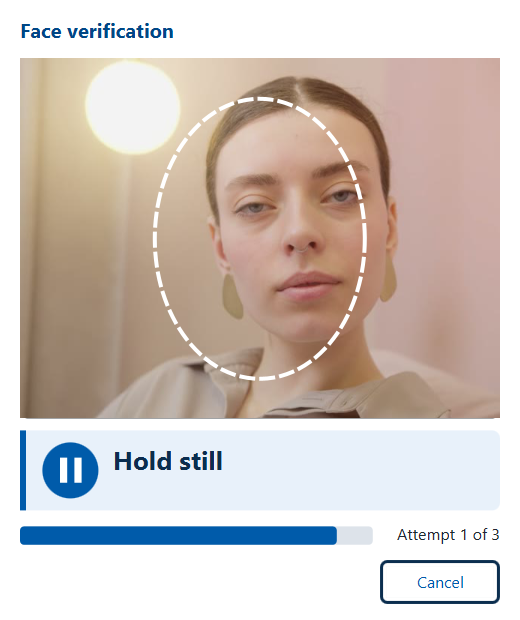
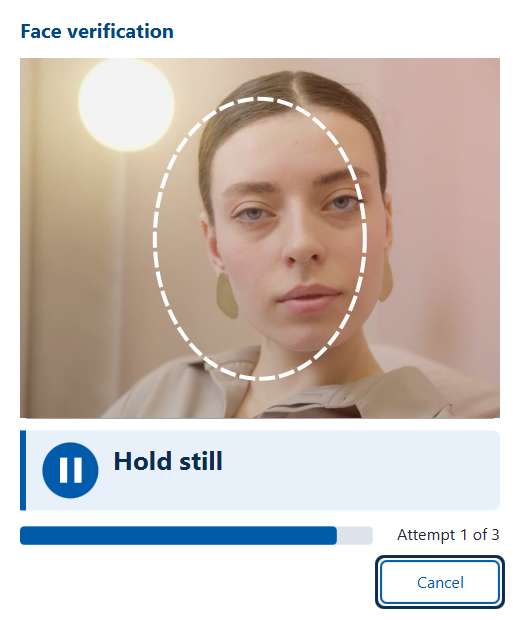
fix(liveness): name the model-signing key by fingerprint so desktop config sync fits
Since 1bed6ab no model loads unless mosip.registration.liveness.model.trust_anchor_pem
names the signing key. MockSync sent it as a 615-character PEM block, but the desktop
client stores synced settings in 512 characters, so its whole config sync failed and
the engine never loaded (3 of 71 desktop flow checks failed).

The setting may now hold sha256:<64 hex> fingerprints that pick a key shipped with the
client (the development key, or keys in a liveness-model-trust-anchors.pem class path
file), alongside PEM blocks. Unset, unreadable, or a fingerprint of no shipped key
still means CONFIG_INVALID and no model loads. MockSync sends the development key's
fingerprint. Both clients use ModelTrustAnchors.configured; the Android parity test
now loads the engine with the fingerprint.

Desktop flow 71 of 71, screens flow 24 of 24 (screenshots d-s1 to d-s12 refreshed);
engine, desktop liveness and Android unit tests pass (2,707 in the table).

diff --git a/liveness/liveness-onnx/src/main/java/io/mosip/liveness/onnx/model/ModelTrustAnchors.java b/liveness/liveness-onnx/src/main/java/io/mosip/liveness/onnx/model/ModelTrustAnchors.java
@@ -6,15 +6,24 @@
  */
 package io.mosip.liveness.onnx.model;
 
+import java.io.ByteArrayOutputStream;
+import java.io.IOException;
+import java.io.InputStream;
+import java.nio.charset.StandardCharsets;
 import java.security.GeneralSecurityException;
 import java.security.KeyFactory;
+import java.security.MessageDigest;
+import java.security.NoSuchAlgorithmException;
 import java.security.PublicKey;
 import java.security.spec.X509EncodedKeySpec;
 import java.util.ArrayList;
 import java.util.Base64;
 import java.util.List;
+import java.util.Locale;
 import java.util.Objects;
 import java.util.Optional;
+import java.util.regex.Matcher;
+import java.util.regex.Pattern;
 
 import io.mosip.liveness.core.EngineErrorCode;
 import io.mosip.liveness.core.EngineException;
@@ -27,8 +36,20 @@ import io.mosip.liveness.core.config.LivenessConfigKeys;
  * <p>The development key below signs the bundle in this repository ({@code models/manifest.jws}). Its private
  * half is kept outside the repository and never committed. The clients trust only the keys named by
  * {@code mosip.registration.liveness.model.trust_anchor_pem}; demo configurations set it to this key explicitly.
+ *
+ * <p>The setting holds PEM {@code PUBLIC KEY} blocks, or {@code sha256:<64 hex>} fingerprints (SHA-256 of the key's
+ * SubjectPublicKeyInfo) that pick keys shipped with the client: the development key and the PEM blocks of the class
+ * path resource {@value #BUILT_IN_RESOURCE}. A fingerprint fits the desktop client's global-parameter column
+ * (512 characters), which a PEM RSA 3072 key (about 600 characters) does not.
  */
 public final class ModelTrustAnchors {
+
+    /** Class path resource with further keys a fingerprint may pick; optional, added to a deployment's build. */
+    public static final String BUILT_IN_RESOURCE = "liveness-model-trust-anchors.pem";
+
+    private static final Pattern PEM_BLOCK = Pattern.compile(
+            "-----BEGIN PUBLIC KEY-----.*?-----END PUBLIC KEY-----", Pattern.DOTALL);
+    private static final Pattern FINGERPRINT = Pattern.compile("sha256:([0-9a-fA-F]{64})");
 
     /**
      * X.509 SubjectPublicKeyInfo (PEM) of the development model-signing key (RSA 3072, key id
@@ -59,12 +80,13 @@ public final class ModelTrustAnchors {
     }
 
     /**
-     * Returns the keys a deployment trusts: the PEM blocks of {@code mosip.registration.liveness.model.trust_anchor_pem}.
+     * Returns the keys a deployment trusts: the PEM blocks, and the shipped keys picked by fingerprint, in
+     * {@code mosip.registration.liveness.model.trust_anchor_pem}.
      *
      * @param config liveness configuration
      * @return at least one key
-     * @throws EngineException {@code CONFIG_INVALID} when the key is unset or holds no readable RSA public key; no
-     *                         built-in key is trusted in its place, so no model loads
+     * @throws EngineException {@code CONFIG_INVALID} when the key is unset, holds no readable RSA public key, or names
+     *                         a fingerprint of no shipped key; no other key is trusted in its place, so no model loads
      */
     public static List<PublicKey> configured(ConfigSource config) throws EngineException {
         Optional<String> pem = config.get(LivenessConfigKeys.MODEL_TRUST_ANCHOR_PEM).map(String::trim)
@@ -74,21 +96,76 @@ public final class ModelTrustAnchors {
                     + " is unset; no model is trusted until it names the model-signing public key");
         }
         List<PublicKey> keys = new ArrayList<>();
+        String value = pem.get().replace("\\n", "");
         try {
-            for (String block : pem.get().replace("\\n", "").split("-----END PUBLIC KEY-----")) {
-                if (!block.trim().isEmpty()) {
-                    keys.add(parsePem(block));
+            Matcher blocks = PEM_BLOCK.matcher(value);
+            while (blocks.find()) {
+                keys.add(parsePem(blocks.group()));
+            }
+            for (String token : blocks.replaceAll(" ").trim().split("[\\s,]+")) {
+                if (token.isEmpty()) {
+                    continue;
                 }
+                Matcher fp = FINGERPRINT.matcher(token);
+                if (!fp.matches()) {
+                    throw new IllegalArgumentException("neither a PEM block nor sha256:<64 hex>");
+                }
+                keys.add(shipped(fp.group(1).toLowerCase(Locale.ROOT)));
             }
         } catch (IllegalArgumentException e) {
-            throw new EngineException(EngineErrorCode.CONFIG_INVALID,
-                    LivenessConfigKeys.MODEL_TRUST_ANCHOR_PEM + " is not a PEM RSA public key", e);
+            throw new EngineException(EngineErrorCode.CONFIG_INVALID, LivenessConfigKeys.MODEL_TRUST_ANCHOR_PEM
+                    + " is not a PEM RSA public key or the fingerprint of a shipped key: " + e.getMessage(), e);
         }
         if (keys.isEmpty()) {
             throw new EngineException(EngineErrorCode.CONFIG_INVALID, LivenessConfigKeys.MODEL_TRUST_ANCHOR_PEM
                     + " holds no key");
         }
         return keys;
+    }
+
+    /**
+     * Returns the fingerprint with which the setting picks a shipped key.
+     *
+     * @param key the key
+     * @return {@code sha256:} and the lower-case hex SHA-256 of the key's SubjectPublicKeyInfo
+     */
+    public static String fingerprint(PublicKey key) {
+        try {
+            StringBuilder sb = new StringBuilder("sha256:");
+            for (byte b : MessageDigest.getInstance("SHA-256").digest(key.getEncoded())) {
+                sb.append(String.format("%02x", b & 0xFF));
+            }
+            return sb.toString();
+        } catch (NoSuchAlgorithmException e) {
+            throw new IllegalStateException("SHA-256 not available", e);
+        }
+    }
+
+    /** The development key or a key of {@value #BUILT_IN_RESOURCE} with this SHA-256 (lower-case hex). */
+    private static PublicKey shipped(String hex) {
+        List<PublicKey> candidates = new ArrayList<>();
+        candidates.add(development());
+        try (InputStream in = ModelTrustAnchors.class.getClassLoader().getResourceAsStream(BUILT_IN_RESOURCE)) {
+            if (in != null) {
+                ByteArrayOutputStream text = new ByteArrayOutputStream();
+                byte[] buf = new byte[4096];
+                for (int n = in.read(buf); n > 0; n = in.read(buf)) {
+                    text.write(buf, 0, n);
+                }
+                Matcher blocks = PEM_BLOCK.matcher(new String(text.toByteArray(), StandardCharsets.US_ASCII));
+                while (blocks.find()) {
+                    candidates.add(parsePem(blocks.group()));
+                }
+            }
+        } catch (IOException e) {
+            throw new IllegalArgumentException(BUILT_IN_RESOURCE + " could not be read", e);
+        }
+        for (PublicKey k : candidates) {
+            if (fingerprint(k).equals("sha256:" + hex)) {
+                return k;
+            }
+        }
+        throw new IllegalArgumentException("no shipped key has fingerprint sha256:" + hex);
     }
 
     /**

diff --git a/liveness/liveness-onnx/src/test/java/io/mosip/liveness/onnx/OnnxLivenessEngineProviderTest.java b/liveness/liveness-onnx/src/test/java/io/mosip/liveness/onnx/OnnxLivenessEngineProviderTest.java
@@ -98,6 +98,33 @@ class OnnxLivenessEngineProviderTest {
         assertEquals(EngineErrorCode.CONFIG_INVALID, invalid.getErrorCode());
     }
 
+    /**
+     * A fingerprint picks a key shipped with the client and fits the desktop client's 512-character global-parameter
+     * column, which the PEM RSA 3072 key does not (the desktop config sync failed on it); a fingerprint of no shipped
+     * key trusts nothing.
+     */
+    @Test
+    void fingerprintPicksTheShippedKeyAndFitsTheDesktopColumn() throws Exception {
+        String fp = ModelTrustAnchors.fingerprint(ModelTrustAnchors.development());
+        assertEquals("sha256:99538367853153c2969000626bcd6bdd28e7267d0649c0057662f85ee23e8b80", fp);
+        assertTrue(fp.length() <= 512 && ModelTrustAnchors.DEVELOPMENT_KEY_PEM.length() > 512);
+        Map<String, String> config = new HashMap<>();
+        config.put(LivenessConfigKeys.MODEL_TRUST_ANCHOR_PEM, fp.toUpperCase().replace("SHA256:", "sha256:"));
+        new OnnxLivenessEngineProvider().create(context(config)).close();
+
+        KeyPairGenerator g = KeyPairGenerator.getInstance("RSA");
+        g.initialize(2048);
+        config.put(LivenessConfigKeys.MODEL_TRUST_ANCHOR_PEM,
+                ModelTrustAnchors.fingerprint(g.generateKeyPair().getPublic()));
+        EngineException unknown = assertThrows(EngineException.class,
+                () -> new OnnxLivenessEngineProvider().create(context(config)));
+        assertEquals(EngineErrorCode.CONFIG_INVALID, unknown.getErrorCode());
+
+        config.put(LivenessConfigKeys.MODEL_TRUST_ANCHOR_PEM, "sha256:1234");
+        assertEquals(EngineErrorCode.CONFIG_INVALID, assertThrows(EngineException.class,
+                () -> new OnnxLivenessEngineProvider().create(context(config))).getErrorCode());
+    }
+
     /** No configured key: nothing is trusted and no model loads, not even the development-signed bundle. */
     @Test
     void unsetTrustAnchorLoadsNoModel() {

diff --git a/clients/android/android/livenessmanager/src/test/java/io/mosip/registration/livenessmanager/LivenessParityTest.java b/clients/android/android/livenessmanager/src/test/java/io/mosip/registration/livenessmanager/LivenessParityTest.java
@@ -68,7 +68,9 @@ public class LivenessParityTest {
         Context context = ApplicationProvider.getApplicationContext();
         AndroidImageDecoder decoder = new AndroidImageDecoder();
         Map<String, String> synced = new LinkedHashMap<>();
-        synced.put(LivenessConfigKeys.MODEL_TRUST_ANCHOR_PEM, ModelTrustAnchors.DEVELOPMENT_KEY_PEM);
+        // the form MockSync syncs: the development key named by its fingerprint
+        synced.put(LivenessConfigKeys.MODEL_TRUST_ANCHOR_PEM,
+                ModelTrustAnchors.fingerprint(ModelTrustAnchors.development()));
         EngineLoader engines = EngineLoader.onnx(context.getAssets(), config(synced), decoder);
         List<String> failures = new ArrayList<>();
         int committed = 0;

diff --git a/docs/test-report/README.md b/docs/test-report/README.md
@@ -6,7 +6,7 @@ stay in the linked reports; requirement-by-requirement status is in [../traceabi
 
 | Report | What it covers |
 |---|---|
-| [desktop-e2e.md](desktop-e2e.md) | Real desktop Registration Client against MockSync (mock MOSIP server) and MockMDS (mock face device): 13 scripted flows, 3 interactive flows, audit and packet evidence. Re-run 2026-10-17 at the shipped policy with the challenge pool cut to blink and smile: 71 of 71 (2026-10-15: 69 of 71) |
+| [desktop-e2e.md](desktop-e2e.md) | Real desktop Registration Client against MockSync (mock MOSIP server) and MockMDS (mock face device): 13 scripted flows, 3 interactive flows, audit and packet evidence. Re-run 2026-10-17 at the shipped policy with the challenge pool cut to blink and smile: 71 of 71 (2026-10-15: 69 of 71); again 71 of 71 on 2026-10-25 after the signing-key fix, screens flow 24 of 24 |
 | [android-e2e.md](android-e2e.md) | Real Android Registration Client on an Android 14 emulator against MockSync: 16 flows, latency, APK size. Re-run 2026-10-17 at the shipped policy with the challenge pool cut to blink and smile: 59 of 74 (2026-10-14: 55 of 75) |
 | [interoperability.md](interoperability.md) | Desktop and Android give the same liveness decision: 19 replayed cases through each client's engine loader, configuration and decoder, one ONNX Runtime release (1.20.0) on both (bonus B4) |
 | [android-performance.md](android-performance.md) | Per-frame latency and memory of the engine on a physical Android phone (bonus B7 and B8): measured on a OnePlus CPH2569 on 2026-10-24 (best p50 58-71 ms, p95 74-92 ms at 2 threads; 20 ms target missed) |
@@ -20,9 +20,9 @@ stay in the linked reports; requirement-by-requirement status is in [../traceabi
 
 | Area | Result |
 |---|---|
-| Unit and component tests | **2,706 tests, 0 failures, 0 errors** in the runs of 2026-10-25 over 13 test suites (section 2; Flutter count from 2026-10-14) |
+| Unit and component tests | **2,707 tests, 0 failures, 0 errors** in the runs of 2026-10-25 over 13 test suites (section 2; Flutter count from 2026-10-14) |
 | Automated liveness and attack scenarios | run of 2026-10-14 at the shipped defaults: 275 transactions, 755 attempt records (section 3.0). no attack transaction accepted at the shipped defaults (APCER 0.0% for every species and workflow); counts, bona fide rates and the passive-first result: [results](../eval/results/20261014-shipped/README.md) |
-| Desktop end-to-end | reference run 2026-09-30: 41 of 41 checks passed **at the old defaults** (all workflows passive first); 2026-10-17 at the shipped policy with the pool cut to blink and smile: 71 of 71, again in two runs on 2026-10-20 (section 4) |
+| Desktop end-to-end | reference run 2026-09-30: 41 of 41 checks passed **at the old defaults** (all workflows passive first); 2026-10-17 at the shipped policy with the pool cut to blink and smile: 71 of 71, again in two runs on 2026-10-20 and on 2026-10-25 after the signing-key fix (section 4) |
 | Android end-to-end | reference run 2026-09-30: 58 of 58 checks passed **at the old defaults**; a repeat run found one real weakness; 2026-10-17 at the shipped policy with the pool cut to blink and smile: 59 of 74 (section 4) |
 | Bonus items | B4 interoperability done (19 of 19 replayed cases agree on desktop and on Android unit tests, 6 of 6 on an emulator); B6 model import done on both clients (Android button in Device Settings); B7 and B8 measured on one phone on 2026-10-24 (best p95 74-92 ms per frame at 2 threads, 20 ms target missed; section 8) |
 | Headline weakness | every synthetic attack species is refused, but the attacks are software-made: the screen-pattern check that now stops the adaptive screen replay (SYN-A7, 4 of 8 accepted before it) is proven on synthetic screens only, and frames enlarged by 1.5x or a whole number before the engine could look like a screen to it. The dim clip passes since the exposure correction; real dim rooms are untested (section 6) |
@@ -43,7 +43,7 @@ code and still pass with this project's changes.
 | Module | What it tests | Command | Tests | Failures / errors | Skipped | CI job |
 |---|---|---|---|---|---|---|
 | `liveness/liveness-core` | engine: session state machine, passive decision, challenges, action detection, integrity, planarity, capture binding, policy, audit, UI states, MJPEG reader | `mvn -B -f liveness/pom.xml install -Dliveness.benchmark.frames=0` (the job runs `verify`; `install` also puts the engine in `~/.m2`, which the rows below need) | 376 | 0 | 0 | `liveness` |
-| `liveness/liveness-onnx` | ONNX adapters, golden outputs of the 5 models, signed model registry, engine factory, execution providers, exposure correction and screen-pattern check, shared model-bundle importer and store | same run | 127 | 0 | 2 | `liveness` |
+| `liveness/liveness-onnx` | ONNX adapters, golden outputs of the 5 models, signed model registry, engine factory, execution providers, exposure correction and screen-pattern check, shared model-bundle importer and store | same run | 128 | 0 | 2 | `liveness` |
 | `liveness/face-match-sdk` | SFace face-match SDK behind MOSIP's `IBioApiV2`, ISO 19794-5 records, MOSIP loader | same run | 44 | 0 | 0 | `liveness` |
 | desktop `registration-services` (liveness and audit tests) | capture and authentication gates, stream session, orchestrator, config, audit sink, packet evidence, pass tokens, model import wiring, behaviour on repeated failure, account lock | after the engine install: `mvn -B -f clients/desktop/registration/pom.xml test -pl registration-services,registration-client -am -Dgpg.skip -Djacoco.skip=true -DfailIfNoTests=false "-Dtest=io/mosip/registration/service/bio/liveness/*Test.java,**/AuditFactoryTest.java,io/mosip/registration/controller/liveness/*Test.java"` (on Linux, put `xvfb-run -a` in front: the JavaFX tests need a display) | 159 | 0 | 0 | `desktop-liveness` |
 | desktop `registration-client` (liveness tests) | liveness panel view model, texts and replacement texts, bundle parity (en/fr/ar), JavaFX listener, diagnostic lines, model import window | same run | 64 | 0 | 0 | `desktop-liveness` |
@@ -55,7 +55,7 @@ code and still pass with this project's changes.
 | `devices/mock-mds` (upstream + extensions) | frame sources, capture from the streamed frame, faults, renewed FTM keys | with JDK 21: `mvn -B -f devices/mock-mds/pom.xml package -Dgpg.skip=true` | 228 | 0 | 0 | `mock-mds` |
 | `tools/eval/scenario-runner` | scenario loading, playlists, classification, output | after the engine install: `mvn -B -f tools/eval/scenario-runner/pom.xml package` | 31 | 0 | 0 | `scenario-runner` |
 | `tools/eval` Python | APCER/BPCER, confidence intervals, frame-pack manifests | `pip install -r tools/eval/requirements.txt`, then `python -m pytest -q tools/eval/tests` | 121 | 0 | 0 | `eval-python` |
-| **Total** | | | **2,706, run on 2026-10-25** | **0** | **2** | |
+| **Total** | | | **2,707, run on 2026-10-25** | **0** | **2** | |
 
 **Totals.** On 2026-10-25, after the maintainer-review fixes, every suite above except the Flutter widgets
 (not changed, 35 from 2026-10-14) ran again: 2,699 tests, 0 failures, 0 errors, 2 benchmark tests skipped
@@ -66,6 +66,10 @@ re-ran the engine, scenario runner, desktop and Android suites: **2,706 tests, 0
 helper-pool close test (`liveness-onnx` 127), the model-store default test (desktop 159), the CameraX start-error
 and attempt-text tests (`livenessmanager` 216) and the officer-face and missing-registration tests (`app` 78);
 MockSync, MockMDS and the Python tools did not change and keep the counts of the first run.
+The signing-key fix of the same evening (18:00-18:30: the key setting may name a shipped key by its `sha256:`
+fingerprint, because the desktop client's synced values hold 512 characters) re-ran the engine, desktop and Android
+suites: **2,707 tests, 0 failures, 0 errors**. New: the fingerprint test (`liveness-onnx` 128); the Android parity
+test now loads the engine with the fingerprint MockSync sends (`livenessmanager` 216, unchanged count).
 
 The verification run of 2026-10-14 (19:46-20:03, logs outside the repository) ran every suite of the
 table on the final code of the PS04 completion pass and found **2,691 tests, 0 failures, 0 errors**, 2 benchmark
@@ -84,7 +88,7 @@ MockSync step fails while packaging, a MockSync started by a demo still holds `m
 
 **Upstream and team-written.** About 1,361 of the tests are upstream: the Android `clientmanager` suite (1,186, all upstream
 tests, passing with this project's changes) and about 175 in MockMDS (an estimate from the first audit count; the 228 in the
-table also include the tests added for the mock face device). The remaining 1,345 or so of the 2,706 are team-written (an
+table also include the tests added for the mock face device). The remaining 1,346 or so of the 2,707 are team-written (an
 approximate figure).
 
 Hosted CI:
@@ -187,7 +191,8 @@ engine before those fixes ([../eval/results/20260930/](../eval/results/20260930/
   [desktop-e2e.md section 3.1](desktop-e2e.md#31-scripted-run-reference-run-all-checks-passed). Run of 2026-10-17 at
   the shipped policy with the challenge pool cut to blink and smile, from a client onboarded by `--onboard`: 71 of
   71 (2026-10-15: 69 of 71; 2026-10-14: 5 of 16, stopped by a MockMDS iris quality below the client's threshold,
-  since fixed).
+  since fixed). Run of 2026-10-25 after the signing-key fix (the key setting names the key by fingerprint, because
+  the desktop's synced settings hold 512 characters): 71 of 71, screens flow 24 of 24 on its second try.
 - **Android** ([android-e2e.md](android-e2e.md)): real MOSIP Android Registration Client (debug APK) on an Android 14
   x86_64 emulator with MockSync, faces through the app's debug replay, `scripts/demo-android.sh`, about 30 minutes.
   Reference run 7 of 2026-09-30: **58 of 58 checks passed at the old defaults**; flows in

diff --git a/docs/design/configuration.md b/docs/design/configuration.md
@@ -45,7 +45,7 @@ flowchart LR
 | `mosip.registration.liveness.engine` | string | `mosip-onnx-default` | engine IDs found by `ServiceLoader` | no | Which `LivenessEngineProvider` builds the engine. |
 | `mosip.registration.liveness.engine.execution_provider` | `CPU` / `XNNPACK` / `NNAPI` | `CPU` | unknown value means `CPU` | no | ONNX Runtime back end of the default engine, read when the engine loads (restart needed). A back end the installed runtime lacks falls back to CPU. Android reads it (`livenessmanager/engine/AcceleratorCustomizer`); the desktop Windows runtime has only CPU and does not read it ([calibration notes](../eval/calibration-notes.md) 0.4). |
 | `mosip.registration.liveness.model.min_version` | `MAJOR.MINOR.PATCH` | `1.3.0` | | no | Oldest model bundle version accepted; an older bundle fails to load (rollback protection, audit LV14). Any other form (`1.2`, `latest`) is reported as invalid and the default applies (since 2026-10-10; before, `1.2` stopped the engine). |
-| `mosip.registration.liveness.model.trust_anchor_pem` | PEM `PUBLIC KEY` block(s), RSA | unset: `CONFIG_INVALID`, no model loads (MockSync, the demo server, sets the development key) | must parse, else `CONFIG_INVALID` (engine stops, no fallback) | no | Model-signing key(s) a bundle must be signed with, on both clients (engine load and offline import). Synced only. Added 2026-10-10 |
+| `mosip.registration.liveness.model.trust_anchor_pem` | PEM `PUBLIC KEY` block(s), RSA, or `sha256:<64 hex>` fingerprints of keys shipped with the client (the development key, or keys in a `liveness-model-trust-anchors.pem` class path file added to the build) | unset: `CONFIG_INVALID`, no model loads (MockSync, the demo server, sets the development key's fingerprint) | must parse, and a fingerprint must match a shipped key, else `CONFIG_INVALID` (engine stops, no fallback) | no | Model-signing key(s) a bundle must be signed with, on both clients (engine load and offline import). Synced only. Added 2026-10-10. The desktop client stores synced values in 512 characters and a PEM RSA 3072 key is about 600, so on the desktop use a fingerprint (since 2026-10-25; a PEM value made every desktop config sync fail) |
 | `mosip.registration.liveness.model.update_url` | URL | empty | `https://`, or `http://` to `localhost` or a loopback address literal | no | Online model update: the signed bundle `.zip` that "Check for model update" downloads and imports with the offline import checks (both clients). Empty hides the button. Synced only. Added 2026-10-14 |
 
 ## 3. Policy per workflow

diff --git a/docs/design/security-privacy.md b/docs/design/security-privacy.md
@@ -99,7 +99,7 @@ Raw passive scores appear only in the packet (`LIVENESS_SCORE`) and, when switch
 
 | Key | Where | Status |
 |---|---|---|
-| Model signing key | Private half kept outside the repository; public half `models/model-signing-dev.pub.pem` and compiled into `ModelTrustAnchors.DEVELOPMENT_KEY_PEM` | Development key (RSA 3,072, kid `sha256:99538367853153c2`) is trusted only when `mosip.registration.liveness.model.trust_anchor_pem` names it, as MockSync, the demo server, does; with the setting unset no model loads (`CONFIG_INVALID`). That synced key (one or more PEM `PUBLIC KEY` blocks) applies on both clients, for the engine load and the offline import alike; an unreadable value stops the engine (`CONFIG_INVALID`) instead of falling back. A production deployment sets it to a key MOSIP controls and ships bundles signed with that key. The face-match SDK still verifies its own jar's bundle with the development key |
+| Model signing key | Private half kept outside the repository; public half `models/model-signing-dev.pub.pem` and compiled into `ModelTrustAnchors.DEVELOPMENT_KEY_PEM` | Development key (RSA 3,072, kid `sha256:99538367853153c2`) is trusted only when `mosip.registration.liveness.model.trust_anchor_pem` names it (as a PEM block, or as its full fingerprint `sha256:9953...8b80`, which the desktop client needs because its synced values hold 512 characters), as MockSync, the demo server, does; with the setting unset no model loads (`CONFIG_INVALID`). That synced key (one or more PEM `PUBLIC KEY` blocks) applies on both clients, for the engine load and the offline import alike; an unreadable value stops the engine (`CONFIG_INVALID`) instead of falling back. A production deployment sets it to a key MOSIP controls and ships bundles signed with that key. The face-match SDK still verifies its own jar's bundle with the development key |
 | MockMDS device and FTM keys | `devices/mock-mds/Biometric Devices/` | MOSIP's public mock-device test keys; the FTM root was re-issued with the same key pair (valid to 2035) |
 | MockSync TLS, signing and CA keys | `tools/mock-sync/work/keys/`, generated on first run | Never committed |
 | Android built-in device key | Android Keystore alias `mosip-liveness-face-device` | Imported once from a PKCS#12 file issued by a DEVICE CA; the file is deleted after import |

diff --git a/docs/test-report/desktop-e2e.md b/docs/test-report/desktop-e2e.md
@@ -182,6 +182,28 @@ An earlier try at 14:00 the same day stopped at the operator login with `FAILED(
 laptop had about 2 GB of free memory then, with builds of other projects running. The 14:23 run had the machine
 to itself and passed. This matches the starved run of 2026-10-20 described above.
 
+**Signing-key regression and re-run of 2026-10-25 (IST): 71 of 71 checks, then screens 24 of 24** (fix on top of
+commit `85ad110`; `MOCKSYNC_HTTP_PORT=18080 scripts/demo-desktop.sh --restore-golden --policy recorded`, 18:27-18:46,
+output `run/demo/desktop-keyfp-20261025`, outside git; check lines in
+[desktop-e2e/recorded-20261025/results.txt](desktop-e2e/recorded-20261025/results.txt)).
+
+- **What was wrong:** commit `1bed6ab` made the clients load no model unless
+  `mosip.registration.liveness.model.trust_anchor_pem` names the model-signing key, and MockSync sent the key as a
+  PEM block of 615 characters. The desktop client stores synced settings in a 512-character column, so the whole
+  config sync failed, a client never received the key, the engine never loaded, and 3 of the 71 checks failed.
+- **Change:** the setting may name a key shipped with the client by its fingerprint, `sha256:` and 64 hex digits
+  (`ModelTrustAnchors`; the development key, or keys in a `liveness-model-trust-anchors.pem` class path file).
+  MockSync now sends the development key's fingerprint. Unset, unreadable, or a fingerprint of no shipped key still
+  means no model loads (`CONFIG_INVALID`); a PEM block still works where it fits (Android). Both clients use the same
+  `ModelTrustAnchors.configured`.
+- **Result:** 71 of 71; the client log shows the engine ready with all five models after the sync.
+- **Screens flow** (`--flow tools/mock-sync/e2e/flows/screens-states.flow`, 18:58-19:04, check lines in
+  [desktop-e2e/screens-20261025/results.txt](desktop-e2e/screens-20261025/results.txt)): 24 of 24, pictures
+  `docs/ux/screenshots/desktop/d-s1` to `d-s12` taken again (they now show the focus ring of commit `85ad110`). A
+  first try at 18:47 passed 17 of 24: the officer's first login attempt ended `FAILED(ENGINE)` after the engine had
+  loaded, the same intermittent failure as on 2026-10-20 and 2026-10-22 (about 2.6 GB of memory free at the time);
+  it was not diagnosed.
+
 ## 1. Set-up
 
 | Part | What was used |

diff --git a/docs/install/android.md b/docs/install/android.md
@@ -501,9 +501,16 @@ with `--app-id-suffix .release`, engine loaded, MockSync reached over `adb rever
 ## 10. Import a liveness model bundle (offline model update)
 
 New liveness models arrive as a signed bundle: `manifest.json`, `manifest.jws` and the model files, in a folder or
-a `.zip`. The app checks the signature against the key built into it, the SHA-256 of every model, and refuses a
-version below `mosip.registration.liveness.model.min_version` or not newer than the running bundle. Details:
+a `.zip`. The app checks the signature against the key named by the synced setting
+`mosip.registration.liveness.model.trust_anchor_pem`, the SHA-256 of every model, and refuses a version below
+`mosip.registration.liveness.model.min_version` or not newer than the running bundle. Details:
 `docs/design/android-liveness.md` section 14.
+
+The key setting holds PEM `PUBLIC KEY` blocks or `sha256:<64 hex>` fingerprints of keys shipped in the app (the
+development key, or a key in a `liveness-model-trust-anchors.pem` class path file). MockSync sends the development
+key's fingerprint, the same value the desktop client uses. Unset, or a fingerprint of no shipped key: no model
+loads and liveness fails closed (`CONFIG_INVALID`); the same rule (`ModelTrustAnchors.configured`) runs on both
+clients.
 
 1. Copy the bundle to the tablet, into the app's import folder (create it if missing):
 

diff --git a/docs/install/desktop.md b/docs/install/desktop.md
@@ -180,6 +180,13 @@ then be given the new values.
    that change holds bundle 1.0.1, which the client refuses (`MODEL_VERSION`; liveness fails closed). Rebuild the
    engine (`mvn -f liveness/pom.xml install`), rebuild the client, run `scripts/desktop-build.sh` again (it replaces only
    `lib/` and keeps the database and machine keys), restart MockSync, then run Synchronize Data.
+7. Model-signing key: the client loads no model until `mosip.registration.liveness.model.trust_anchor_pem` names the
+   key the bundle is signed with (unset or unknown: `CONFIG_INVALID`, liveness fails closed). The desktop client stores
+   synced values in 512 characters and a PEM RSA 3072 key is about 600, so set the key's fingerprint
+   (`sha256:<64 hex>`, `ModelTrustAnchors.fingerprint`). MockSync sends the development key's fingerprint
+   `sha256:99538367853153c2969000626bcd6bdd28e7267d0649c0057662f85ee23e8b80`. A fingerprint picks only a key shipped
+   in the client: the development key, or a key in a `liveness-model-trust-anchors.pem` file on the class path
+   (see `docs/design/configuration.md`).
 
 ### 6.1 Scripted end-to-end demo
 

diff --git a/liveness/liveness-onnx/README.md b/liveness/liveness-onnx/README.md
@@ -137,6 +137,10 @@ engine.close();                           // at shutdown, after the last session
   - `ModelRegistryTest` checks that it equals `models/model-signing-dev.pub.pem`.
   - A deployment passes its own key with `ModelRegistry.Builder.trustAnchor(PublicKey)`. Once any key is passed,
     the development key is no longer trusted.
+  - The clients take the keys from `mosip.registration.liveness.model.trust_anchor_pem`
+    (`ModelTrustAnchors.configured`): PEM blocks, or `sha256:<64 hex>` fingerprints that pick a key shipped with the
+    client (the development key, or a key in the class path file `liveness-model-trust-anchors.pem`). The desktop
+    client needs the fingerprint form: its synced values are limited to 512 characters.
 - **Private key:**
   - It never enters the repository. `ModelSigner keygen` refuses to write a private key inside a git working tree
     unless `--allow-in-repo` is given.
